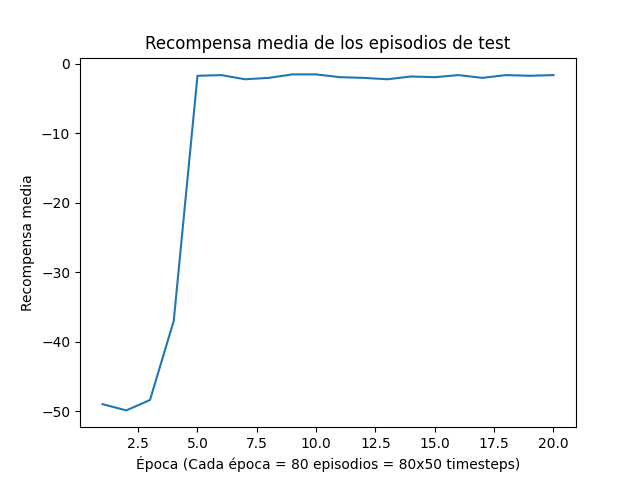
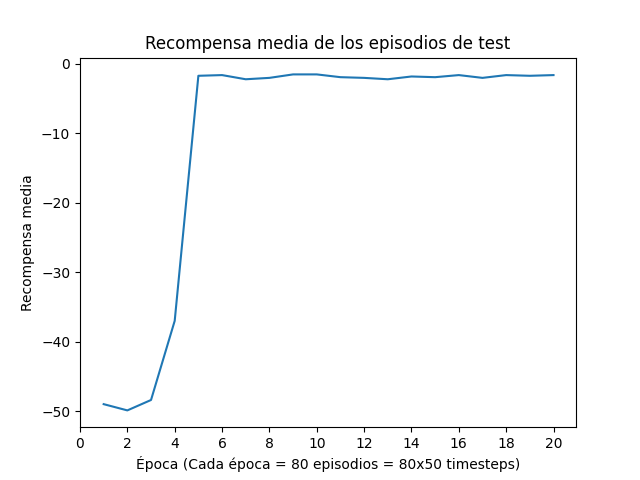
reach trained

diff --git a/ddpg_her/plot.py b/ddpg_her/plot.py
@@ -12,6 +12,7 @@ plt.figure()
 plt.plot(df['Epoch'],df['TestEpRew'])
 plt.title('Recompensa media de los episodios de test')
 plt.xlabel('Época (Cada época = 80 episodios = 80x50 timesteps)')
+plt.xticks(np.arange(0,21,step=2))
 plt.ylabel('Recompensa media')
 plt.savefig('results/' + experiment_name + '_ep_rew_mean.png')
 plt.show()
@@ -21,6 +22,7 @@ plt.figure()
 plt.plot(df['Epoch'],df['TestSuccessRate'])
 plt.title('Tasa de éxito de los episodios de test')
 plt.xlabel('Época (Cada época = 80 episodios = 80x50 timesteps)')
+plt.xticks(np.arange(0,21,step=2))
 plt.ylabel('Tasa de éxito')
 plt.savefig('results/' + experiment_name + '_success_rate.png')
 plt.show()
